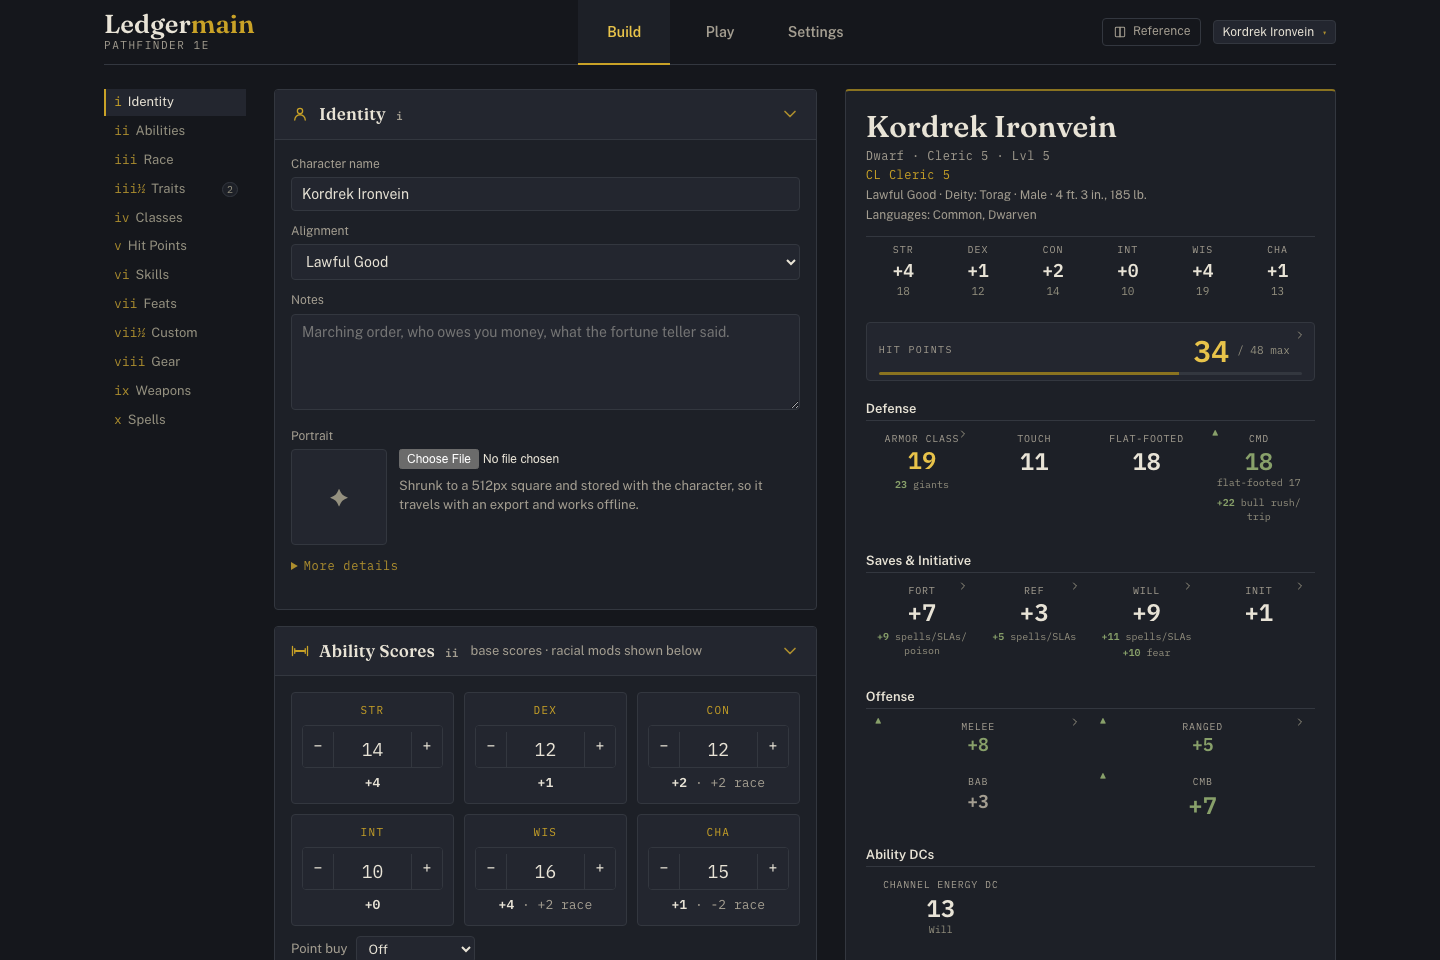
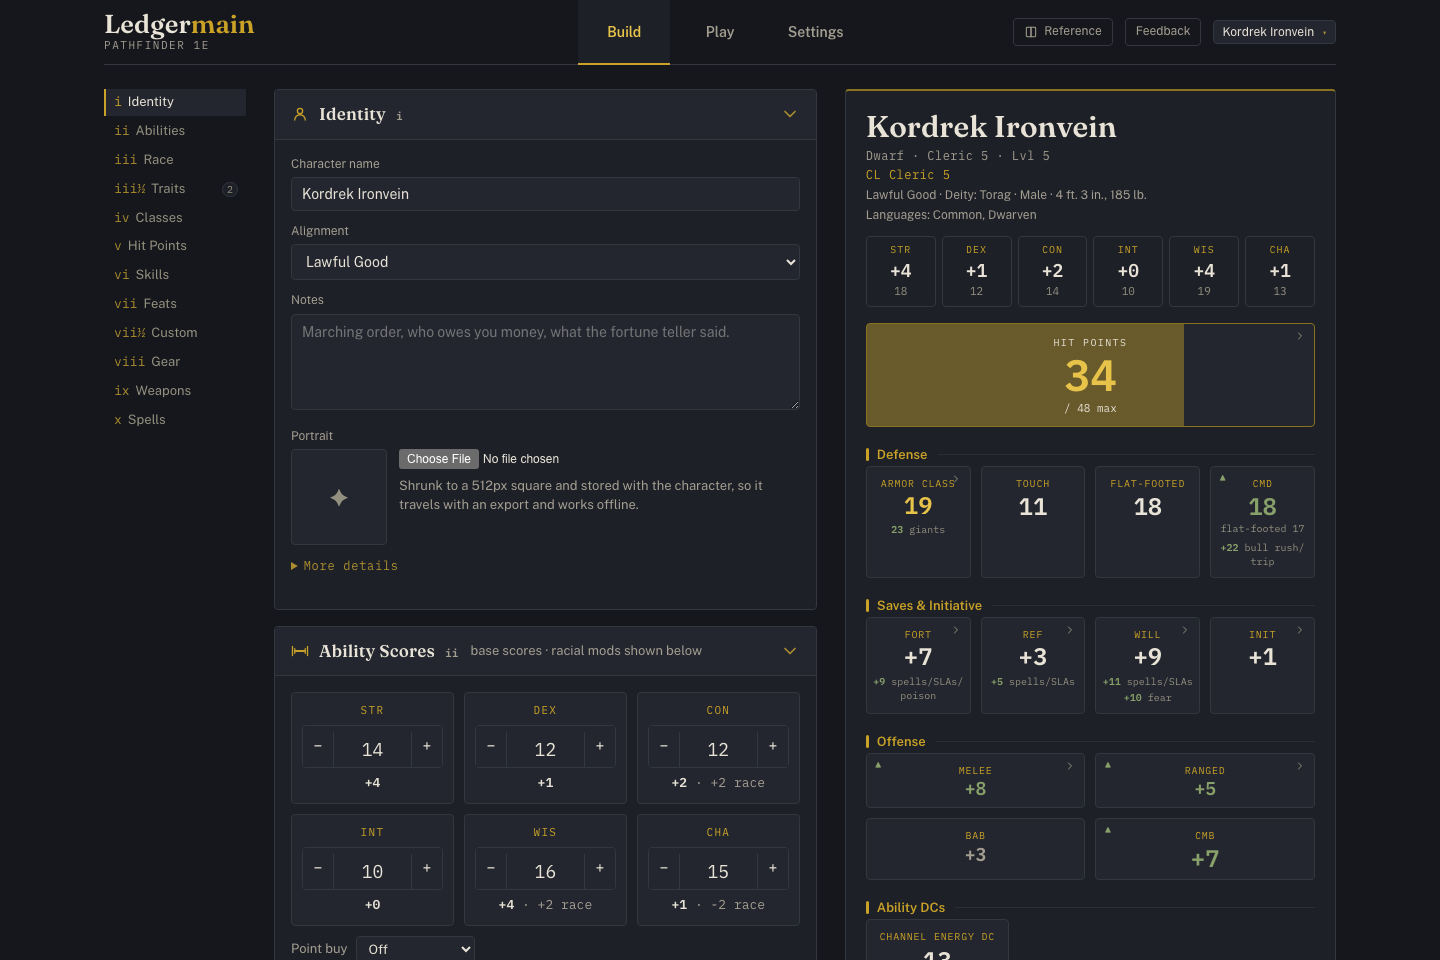
Restore the side-sheet HP gauge and visual hierarchy
Bring back the full-height live HP gauge and gold labels on boxed stats without changing the wider attack rows.
Keep Feedback visible with a GitHub link when the in-app form is not configured.

diff --git a/apps/web/src/styles.css b/apps/web/src/styles.css
@@ -409,6 +409,7 @@ a {
   .sync-signout,
   .sync-status,
   .ref-link,
+  .feedback-open,
   .action-error {
     min-height: var(--tap-min);
   }
@@ -2393,52 +2394,37 @@ a:focus-visible,
 
 /* ------------------------------------------------------------ stat groups -- */
 
-/* A short gauge leaves the number on the same readable surface at any HP. */
+/* The full seal is the gauge; the fill stops at the live HP percentage. */
 .stat-hero-band {
   margin: var(--space-4) 0;
-  --hp-pct: 100%;
-  --hp-fill: var(--gold-dim);
+  --hp-fill: color-mix(in srgb, var(--gold) 42%, var(--surface-2));
 }
 
 .stat-hero-band[data-hp-low="true"] {
-  --hp-fill: var(--oxblood);
+  --hp-fill: color-mix(in srgb, var(--oxblood) 60%, var(--surface-2));
 }
 
 .stat-hero-band .seal {
-  display: grid;
-  grid-template-columns: minmax(0, 1fr) auto auto;
-  gap: var(--space-2);
-  min-height: 0;
-  padding: 9px 24px 13px 12px;
-  text-align: left;
-}
-
-.stat-hero-band .seal::before {
-  content: "";
-  position: absolute;
-  inset: auto 12px 5px;
-  height: 3px;
-  border-radius: 2px;
-  background: linear-gradient(to right, var(--hp-fill) var(--hp-pct), var(--line) 0);
+  min-height: 100px;
+  border-color: var(--gold-dim);
+  background: linear-gradient(to right, var(--hp-fill) var(--hp-pct), var(--surface-2) 0);
 }
 
 .stat-hero-band .seal .seal-value {
-  font-size: 1.875rem;
+  font-size: 2.75rem;
 }
 
-.stat-hero-band[data-hp-low="true"] .seal .seal-value {
-  color: var(--oxblood-ink);
+.stat-hero-band[data-hp-low="true"] .seal {
+  border-color: var(--oxblood);
+}
+
+.stat-hero-band :is(.seal-label, .seal-foot, .caret),
+.stat-hero-band[data-hp-low="true"] .seal-value {
+  color: var(--ink);
 }
 
 .stat-hero-band .seal .seal-foot {
   font-size: 0.6875rem;
-}
-
-/* Ruled entries in the main sheet; keep the boxed seals in companion panels. */
-.sheet .stat-group-grid,
-.sheet .weapon-attack-stats {
-  gap: 0;
-  border-top: 1px solid var(--line);
 }
 
 .sheet :is(.stat-group-grid, .weapon-attack-stats) > * {
@@ -2448,19 +2434,12 @@ a:focus-visible,
 .sheet :is(.stat-group-grid, .weapon-attack-stats) .seal {
   justify-content: flex-start;
   min-height: 0;
-  padding: 10px 4px 8px;
-  background: none;
-  border-color: transparent;
-}
-
-.sheet
-  :is(.stat-group-grid, .weapon-attack-stats)
-  .seal:is(:hover, :focus-visible, [aria-expanded="true"])[data-expandable="true"] {
-  background: var(--surface-2);
+  padding: 10px 6px 8px;
 }
 
 .sheet :is(.stat-group-grid, .weapon-attack-stats) .seal-label {
   letter-spacing: 0.08em;
+  color: var(--gold);
 }
 
 .sheet .stat-group :is(.seal-label, .seal-value, .seal-foot, .seal-conditionals) {
@@ -2493,18 +2472,13 @@ a:focus-visible,
 }
 
 .sheet .stat-group-legend {
-  display: block;
+  color: var(--gold);
   min-width: 0;
   flex-shrink: 1;
   white-space: normal;
   font: 600 0.8125rem var(--body);
   letter-spacing: normal;
   text-transform: none;
-}
-
-.sheet .stat-group-legend::before,
-.sheet .stat-group-rule {
-  display: none;
 }
 
 /* A labeled group: legend + hairline + sub-grid */
@@ -2701,7 +2675,7 @@ a:focus-visible,
 .ability-strip {
   display: grid;
   grid-template-columns: repeat(6, 1fr);
-  gap: 0;
+  gap: 6px;
   margin: var(--space-3) 0;
 }
 
@@ -2712,7 +2686,8 @@ a:focus-visible,
 }
 
 .ability-pip {
-  border-top: 1px solid var(--line);
+  border: 1px solid var(--line);
+  border-radius: var(--radius);
   padding: 6px 2px;
   text-align: center;
 }
@@ -2725,7 +2700,7 @@ a:focus-visible,
   font-family: var(--mono);
   font-size: 0.625rem;
   letter-spacing: 0.1em;
-  color: var(--muted);
+  color: var(--gold);
 }
 
 .ability-pip .ap-mod {
@@ -2745,7 +2720,7 @@ a:focus-visible,
   font-size: 0.8125rem;
   text-transform: uppercase;
   letter-spacing: 0.1em;
-  color: var(--muted);
+  color: var(--gold);
   font-family: var(--mono);
   font-weight: 500;
   margin: 18px 0 8px;
@@ -8345,6 +8320,9 @@ input[type="text"].saved-roll-name:focus {
 /* Mirrors the preview-notice modal's backdrop/surface vocabulary so the
    feedback dialog reads as a sibling of the app's other overlays. */
 .feedback-open {
+  display: inline-flex;
+  align-items: center;
+  text-decoration: none;
   white-space: nowrap;
 }
 

diff --git a/apps/web/src/components/FeedbackButton.tsx b/apps/web/src/components/FeedbackButton.tsx
@@ -23,11 +23,8 @@ type SubmitState =
   | { kind: "done"; url?: string };
 
 /**
- * Global "Send feedback" control (masthead) + its modal. Renders nothing unless
- * both the API and a Turnstile sitekey are configured (see `feedback/config`),
- * so local dev and un-provisioned deploys show no button at all. The heavy
- * lifting — validation, payload shape — lives in `model/feedback.ts`; this is a
- * thin view over it, matching the app's model/view split.
+ * Global "Feedback" control. Use the in-app form when the API and Turnstile
+ * are configured; otherwise send players to the public issue tracker.
  */
 export function FeedbackButton({ mode, doc }: { mode: string; doc?: CharacterDoc }) {
   const [open, setOpen] = useState(false);
@@ -45,7 +42,19 @@ export function FeedbackButton({ mode, doc }: { mode: string; doc?: CharacterDoc
     }
   }, [pendingPrefill]);
 
-  if (!feedbackEnabled()) return null;
+  if (!feedbackEnabled()) {
+    return (
+      <a
+        className="btn-ghost feedback-open"
+        href="https://github.com/bjschafer/ledgermain/issues/new"
+        target="_blank"
+        rel="noreferrer"
+        title="Send feedback on GitHub"
+      >
+        Feedback
+      </a>
+    );
+  }
 
   return (
     <>

diff --git a/apps/web/src/feedback/config.ts b/apps/web/src/feedback/config.ts
@@ -5,10 +5,8 @@
  * Feedback needs two things wired up: the persistence API (which hosts the
  * `POST /api/feedback` endpoint) and a Cloudflare Turnstile **sitekey** (the
  * public half of the CAPTCHA; the secret half lives only in the Worker). When
- * either is absent the whole feature is hidden — there's no point showing a
- * form that can't produce a verifiable submission. So local dev and any deploy
- * that hasn't set `VITE_TURNSTILE_SITEKEY` simply have no feedback button,
- * exactly like sync degrades to a no-op without `VITE_API_URL`.
+ * either is absent, don't mount a form that can't submit. The masthead links
+ * to GitHub instead, and contextual in-app reports stay unavailable.
  */
 import { apiBaseUrl } from "../sync/config.js";
 

diff --git a/apps/web/src/model/changelogEntries.ts b/apps/web/src/model/changelogEntries.ts
@@ -49,6 +49,12 @@ export interface ChangelogEntry {
 /** Newest first — `CHANGELOG[0]` is the entry the unseen cue keys off. */
 export const CHANGELOG: readonly ChangelogEntry[] = [
   {
+    id: "2026-11-21-sheet-at-a-glance",
+    date: "2026-11-21",
+    title: "See your HP at a glance",
+    note: "The side sheet has a full-size HP bar again, with gold headings and labeled stat boxes to help you find the right number. Feedback stays in the top bar, with a GitHub link when the in-app form is unavailable.",
+  },
+  {
     id: "2026-11-21-ruled-sheet",
     date: "2026-11-21",
     title: "A quieter sheet and centered navigation",

diff --git a/apps/web/src/model/changelog.ts b/apps/web/src/model/changelog.ts
@@ -18,7 +18,7 @@ const LAST_SEEN_KEY = "pf1-tracker:changelogLastSeen";
  * The id of the newest entry in `changelogEntries.ts`. Update it with every new
  * entry; `test/changelog.test.ts` fails, naming the value, if the two differ.
  */
-export const LATEST_ENTRY_ID = "2026-11-21-ruled-sheet";
+export const LATEST_ENTRY_ID = "2026-11-21-sheet-at-a-glance";
 
 const MONTH_NAMES = [
   "Jan",

diff --git a/apps/api/README.md b/apps/api/README.md
@@ -234,9 +234,10 @@ Defense in depth for the one public, unauthenticated write:
   or repos it wasn't aimed at, and quoted text goes in a fence sized to be
   unclosable by its own content.
 
-Until configured the endpoint fails closed (verification/issue creation error,
-never a silent open), and the web app hides the feedback button entirely unless
-both `VITE_API_URL` **and** `VITE_TURNSTILE_SITEKEY` are set at build time.
+Until configured the endpoint fails closed (verification/issue creation error).
+The masthead opens the in-app form only when both `VITE_API_URL` **and**
+`VITE_TURNSTILE_SITEKEY` are set at build time. Otherwise Feedback links directly
+to GitHub, where the player needs an account to file an issue.
 
 ### One-time owner setup
 
@@ -245,9 +246,8 @@ both `VITE_API_URL` **and** `VITE_TURNSTILE_SITEKEY` are set at build time.
      let anyone serve a page from their own machine under this sitekey, solve
      the challenge there, and produce a token whose reported hostname the Worker
      can't distinguish from a real one — which is the whole basis of the
-     endpoint's "came from our app" check. Local dev doesn't need it: the
-     feedback button is hidden unless `VITE_TURNSTILE_SITEKEY` is set at build
-     time, which a dev build normally leaves unset.
+     endpoint's "came from our app" check. Local dev leaves
+     `VITE_TURNSTILE_SITEKEY` unset and uses the GitHub link.
    - Copy the **Site Key** → set it as the web build var `VITE_TURNSTILE_SITEKEY`
      (same place as `VITE_API_URL`: Workers Builds → the `ledgermain` Worker →
      Settings → Build → Build variables). The site key is public.

diff --git a/apps/web/DESIGN_NOTES.md b/apps/web/DESIGN_NOTES.md
@@ -40,18 +40,19 @@ of the page, and set figures in tabular mono so they scan down a column.
 
 ### Signature element
 
-**Ruled stat rows + provenance.** Use one rule across a row rather than a box
-around each value. Keep HP and Armor Class prominent, and let the color and
-marker on a changed value carry the signal. A chevron identifies entries that
+**Boxed stats + provenance.** Use colored labels to find the right group and
+stat in the side sheet. The full Hit Points box is a gauge: its fill recedes
+with damage and turns red at low HP. Keep Armor Class prominent and let
+color and a marker flag changed values. A chevron identifies entries that
 expand into a modifier breakdown from `compute()`'s per-source provenance.
 Give successive attack bonuses room to read as a sequence.
 
 ## Restraint
 
-Gold marks the current place, key totals, and controls that affect play. Keep
-routine panel headers and secondary actions neutral so a gold cue means
-something. Use sentence case and the body face for navigation, controls,
-and sheet headings; reserve small mono labels for the individual stat keys.
+Gold marks the current place, sheet labels, key totals, and controls that
+affect play. Keep routine panel headers outside the sheet and secondary actions
+neutral. Use sentence case and the body face for navigation, controls, and
+sheet headings; reserve small mono labels for the individual stat keys.
 
 Center primary navigation between the Ledgermain wordmark and utilities on
 wide screens. On narrow screens, give it its own row. The reference site
